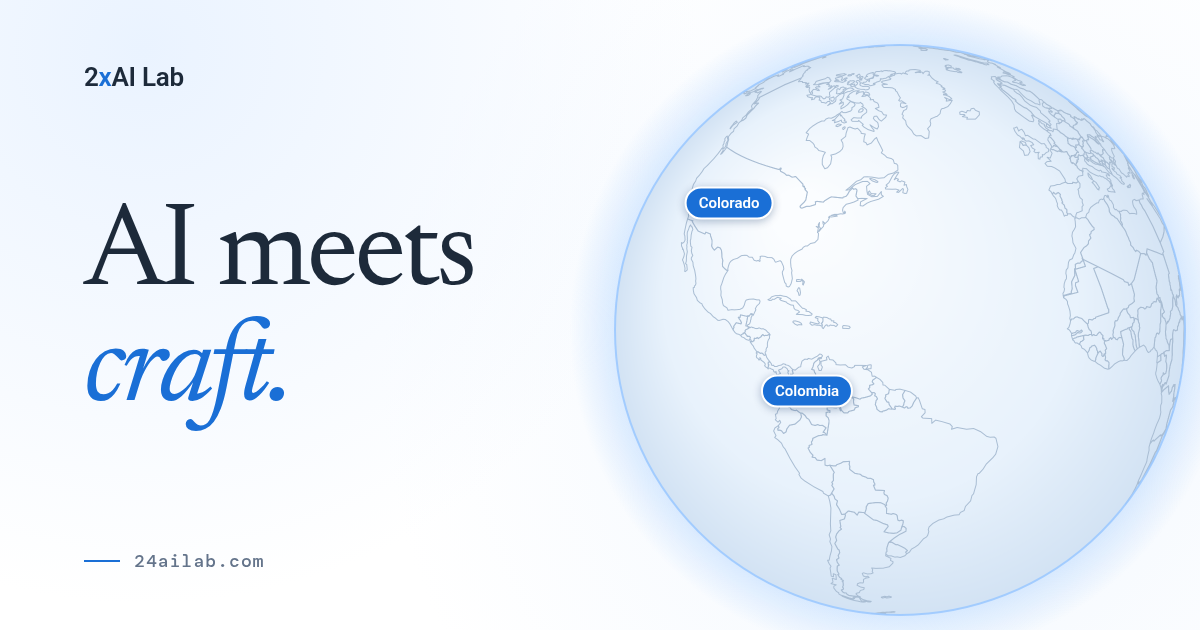
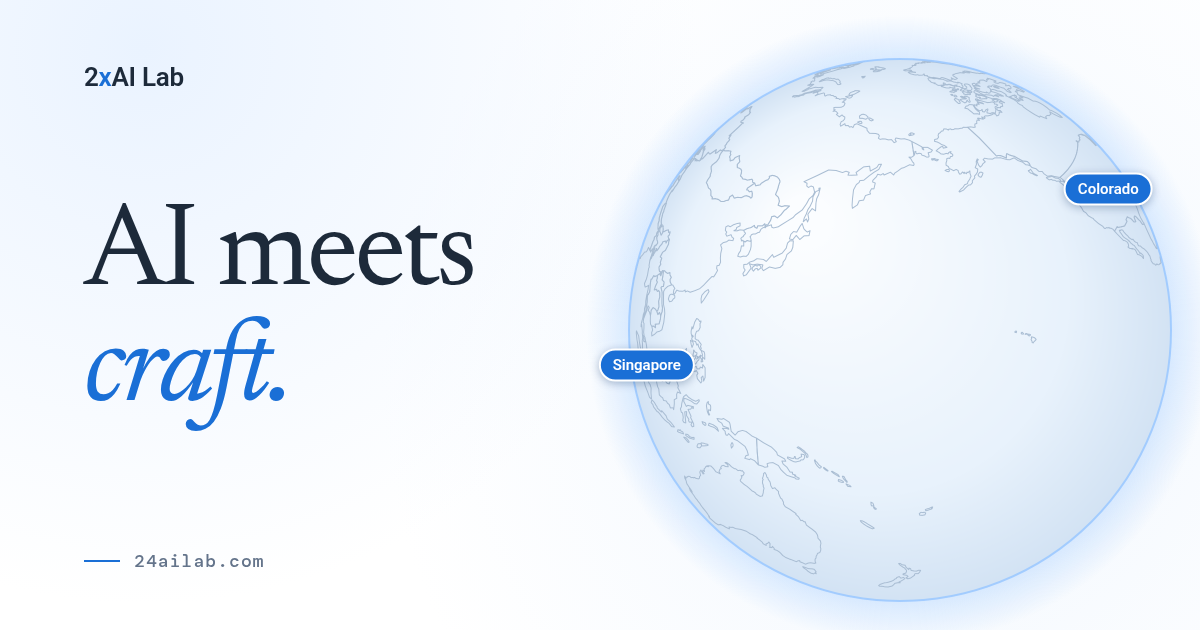
Share image: globe shows Colorado + Singapore, north-up, 5% smaller

diff --git a/tools/og/og.html b/tools/og/og.html
@@ -24,8 +24,8 @@ h1 em{font-style:italic;color:var(--accent)}
 <script>
 const V=new URLSearchParams(location.search).get('v')||'site';
 const CFG={
- site:{cx:900,cy:330,R:285,lat:18,lng:-55,dots:false,
-  pins:[['Colorado',39,-105.5],['Colombia',4.6,-74.1],['Singapore',1.35,103.82]],
+ site:{cx:900,cy:330,R:271,lat:25,lng:173,dots:false,
+  pins:[['Colorado',39,-105.5],['Singapore',1.35,103.82]],
   html:'<div class="mark">2<i>x</i>AI Lab</div><div class="copy"><h1>AI meets<br><em>craft.</em></h1></div><div class="url">24ailab.com</div>'},
  fm:{cx:880,cy:330,R:300,lat:32,lng:8,dots:true,pins:null,
   html:'<div class="mark">2<i>x</i>AI Lab</div><div class="copy"><p class="eyebrow">1979 → 2026</p><h1 style="font-size:150px">FM</h1><p class="sub">A short history<br>of <em style="color:var(--accent)">listening</em>.</p></div><div class="url">24ailab.com/fm · from 2xAI Lab</div>'}
